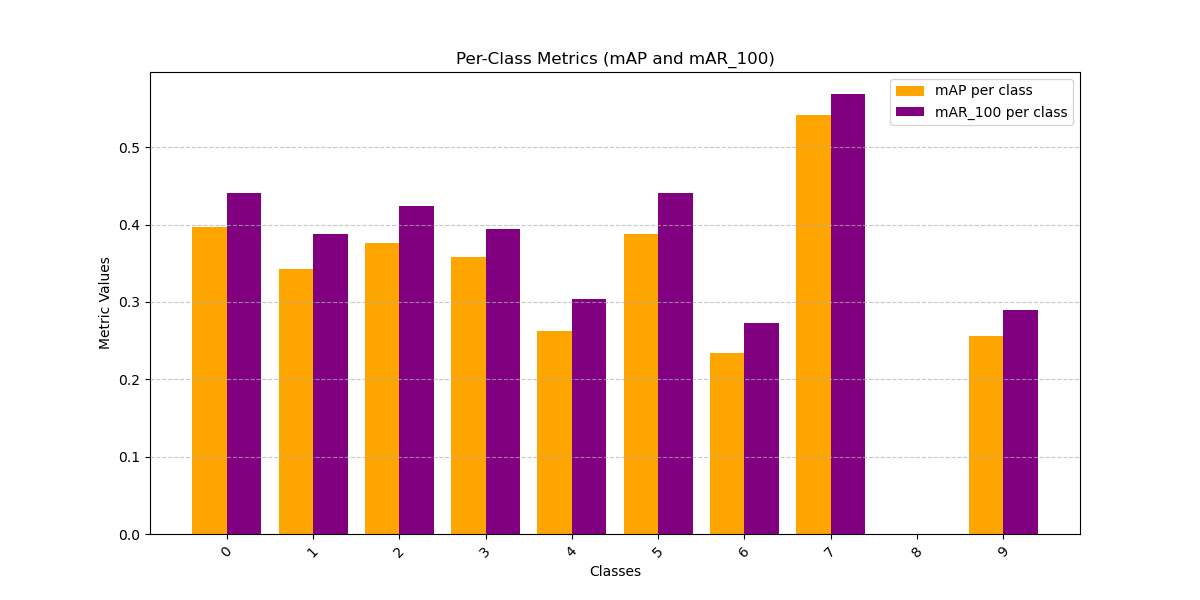
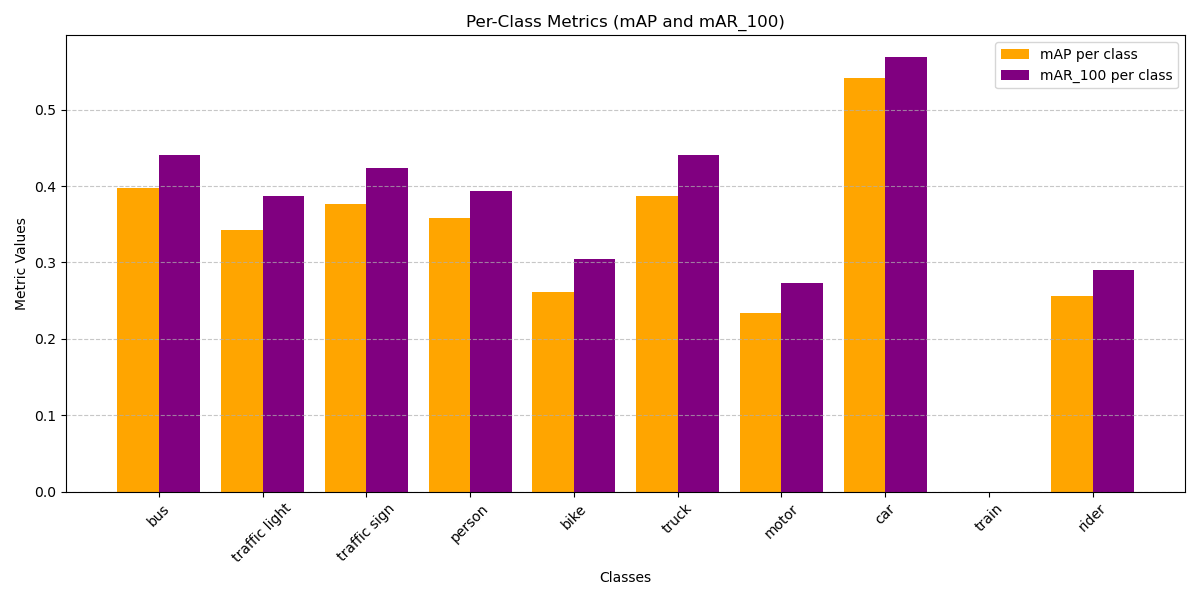
Feat: Upated code for plotting of per class map

diff --git a/output_analysis/sample_plot_test.py b/output_analysis/sample_plot_test.py
@@ -2,6 +2,20 @@ import matplotlib.pyplot as plt
 import torch
 
 
+CLASS_LIST_ID = {
+    "bus": 0,
+    "traffic light": 1,
+    "traffic sign": 2,
+    "person": 3,
+    "bike": 4,
+    "truck": 5,
+    "motor": 6,
+    "car": 7,
+    "train": 8,
+    "rider": 9,
+}
+CLASS_LIST_NAME = {v: k for k, v in CLASS_LIST_ID.items()}
+
 metrics = {
     'classes': torch.tensor([0, 1, 2, 3, 4, 5, 6, 7, 8, 9], dtype=torch.int32),
     'map': torch.tensor(0.3156),
@@ -44,18 +58,32 @@ def plot_aggregated_metrics(metrics):
 
 # Plot per-class metrics
 def plot_per_class_metrics(classes, map_per_class, mar_100_per_class):
+    """
+    Plots per-class metrics (mAP and mAR_100) for object detection performance.
+
+    Args:
+        classes (List[int] or List[str]): List of class names or class IDs.
+        map_per_class (List[float]): List of mean average precision (mAP) values per class.
+        mar_100_per_class (List[float]): List of mean average recall (mAR_100) values per class.
+
+    Returns:
+        None
+    """
+    string_classes = [CLASS_LIST_NAME.get(cls, str(cls)) if isinstance(cls, int) else cls for cls in classes]
+
     plt.figure(figsize=(12, 6))
-    x = range(len(classes))
+    x = range(len(string_classes))
 
     plt.bar(x, map_per_class, width=0.4, label='mAP per class', color='orange')
     plt.bar([i + 0.4 for i in x], mar_100_per_class, width=0.4, label='mAR_100 per class', color='purple')
 
-    plt.xticks([i + 0.2 for i in x], classes, rotation=45)
+    plt.xticks([i + 0.2 for i in x], string_classes, rotation=45)
     plt.xlabel('Classes')
     plt.ylabel('Metric Values')
     plt.title('Per-Class Metrics (mAP and mAR_100)')
     plt.legend()
     plt.grid(axis='y', linestyle='--', alpha=0.7)
+    plt.tight_layout()
     plt.show()
 
 # Plot metrics
